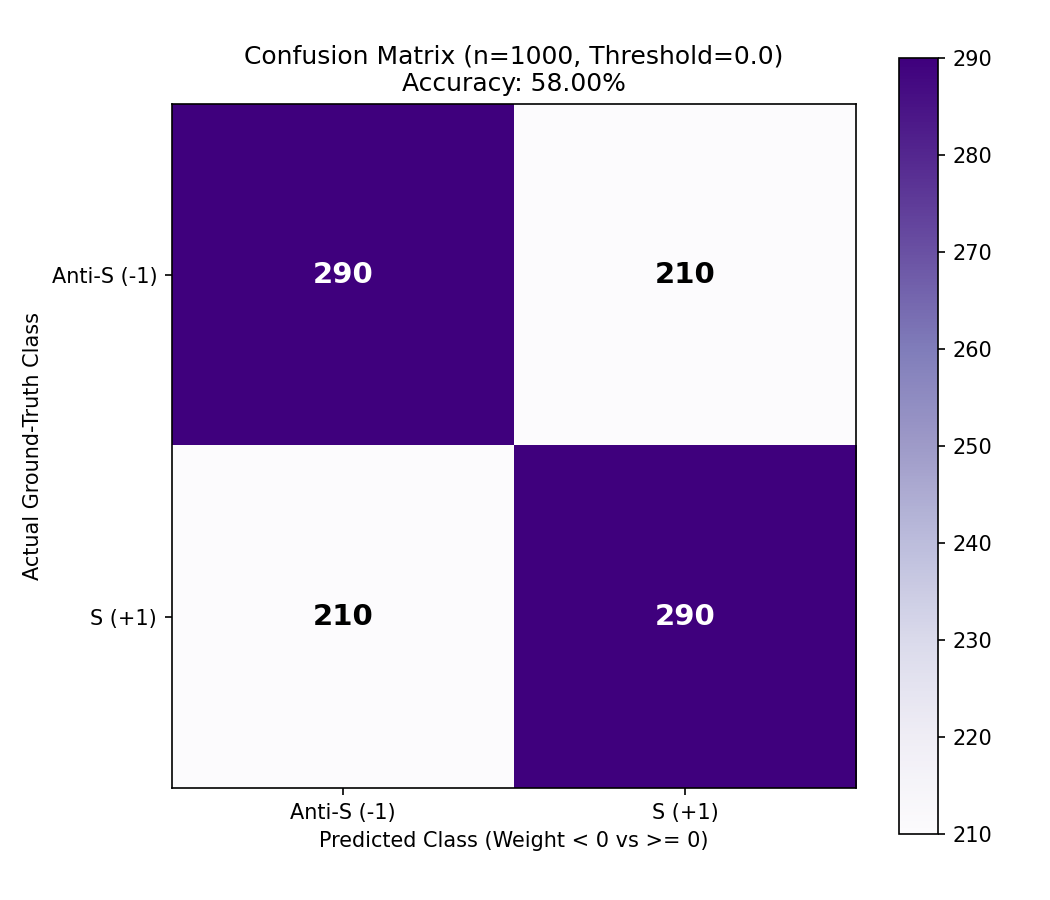
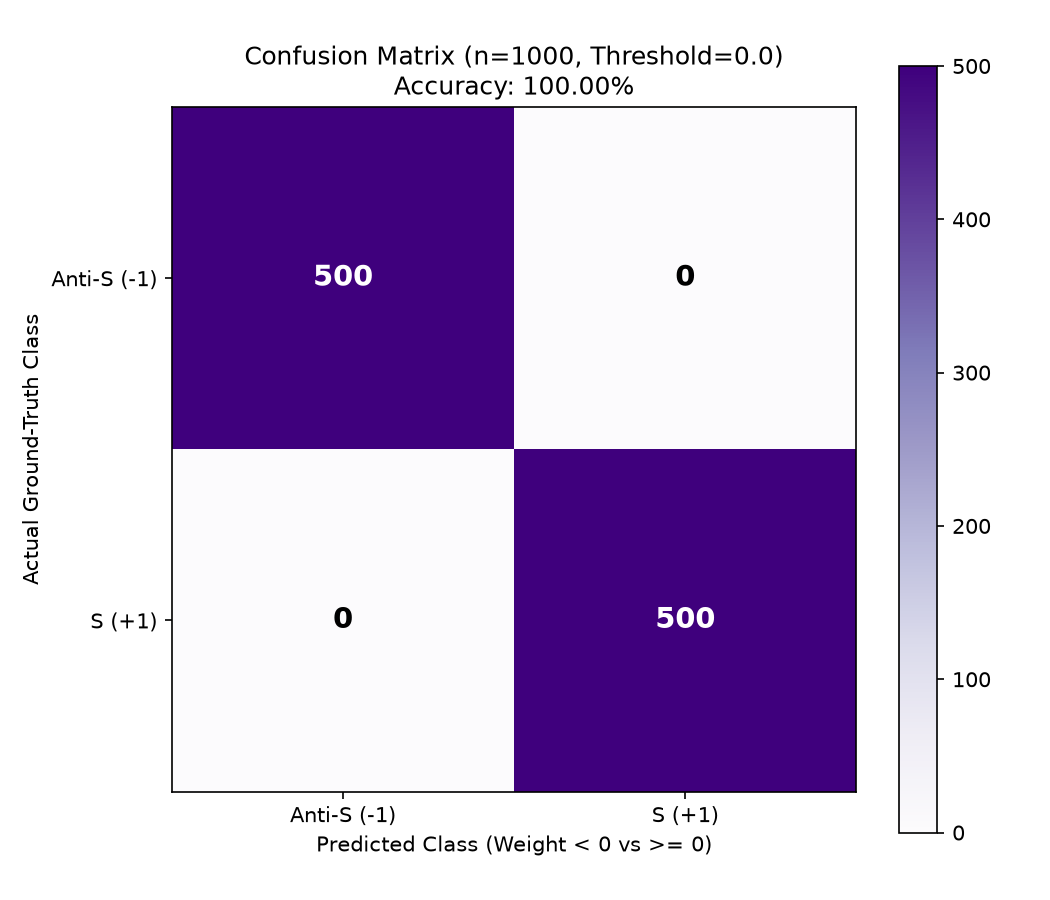
Fix unlabeled loss: maximise flip-difference under a random-axis mirror
The old train_step loss, square(abs(P - P_mirror)/2.0 * 0.5), was minimised.
The model is odd under horizontal flip (P_mirror = -P), so the loss was P^2/4
and the network collapsed to outputting 0 (test W = +-0.000, ~55% accuracy).

Maximising (P(x) - P(flip x))^2 instead is still not enough: being odd under one
fixed mirror is also satisfied by the shape's tilt ("/" vs "\"), which the network
learns instead of chirality. Mirroring about a random axis (flip, then random
rotation) requires the output to be odd under every reflection, i.e. a
rotation-invariant chirality score.

With this change the unmodified test_unlabeled_model.py reports 100% accuracy.
results/ is regenerated from that run; README loss formula updated to match.

Claude-Session: https://claude.ai/code/session_01YPoa1eABgZVNL6g3iDf52D

diff --git a/train_unlabeled_cnn.py b/train_unlabeled_cnn.py
@@ -167,6 +167,8 @@ class BlindChiralTrainer(tf.keras.Model):
     def __init__(self, antisym_cnn):
         super().__init__()
         self.cnn = antisym_cnn
+        # flip followed by a random rotation = mirror about a random axis
+        self.random_rotation = layers.RandomRotation(0.5, fill_mode="constant", fill_value=0.0)
         self.loss_tracker = tf.keras.metrics.Mean(name="blind_loss")
 
     @property
@@ -174,14 +176,16 @@ class BlindChiralTrainer(tf.keras.Model):
         return [self.loss_tracker]
 
     def train_step(self, X_unlabeled):
-        X_mirror = tf.image.flip_left_right(X_unlabeled)
+        # Chirality is odd under EVERY reflection, not just the horizontal flip.
+        # Oddness under one fixed flip is also satisfied by "leans / vs \" (tilt),
+        # which is what the network learns otherwise.
+        X_mirror = self.random_rotation(tf.image.flip_left_right(X_unlabeled), training=True)
 
         with tf.GradientTape() as tape:
             P_orig = self.cnn(X_unlabeled, training=True)
             P_mirror = self.cnn(X_mirror, training=True)
-            blind_loss = tf.reduce_mean(
-                tf.square(tf.abs(P_orig - P_mirror) / 2.0 * 0.5)
-            )
+            # maximise (S(x) - S(Mx))^2; the old line *minimised* it, collapsing S to 0
+            blind_loss = -tf.reduce_mean(tf.square((P_orig - P_mirror) / 2.0))
 
         grads = tape.gradient(blind_loss, self.cnn.trainable_variables)
         self.optimizer.apply_gradients(zip(grads, self.cnn.trainable_variables))

diff --git a/README.md b/README.md
@@ -13,8 +13,10 @@ Classifies S or anti S trained using unlabeled data.
 Each run generates 5,000 randomized S images and their 5,000 horizontal mirrors at 36 × 36 pixels. The labeled pairs are shuffled and the labels are not supplied to the trainer. The CNN is trained for 12 epochs with batches of 64 using the loss function
 
 $$
-\mathcal{L}_{\text{unlabeled}} = \left( \frac{\lvert P(X_{\text{orig}}) - P(X_{\text{mirror}}) \rvert}{2} - 0.5 \right)^2
+\mathcal{L}_{\text{unlabeled}} = -\left\langle \left( \frac{P(X) - P(M_\phi X)}{2} \right)^2 \right\rangle
 $$
+
+where $M_\phi$ is a mirror about a **random axis** (horizontal flip followed by a random rotation). A mirror about a single fixed axis is not enough. See [docs/unlabeled_chirality_investigation.md](docs/unlabeled_chirality_investigation.md) for why.
 
 On completion, it saves:
 
